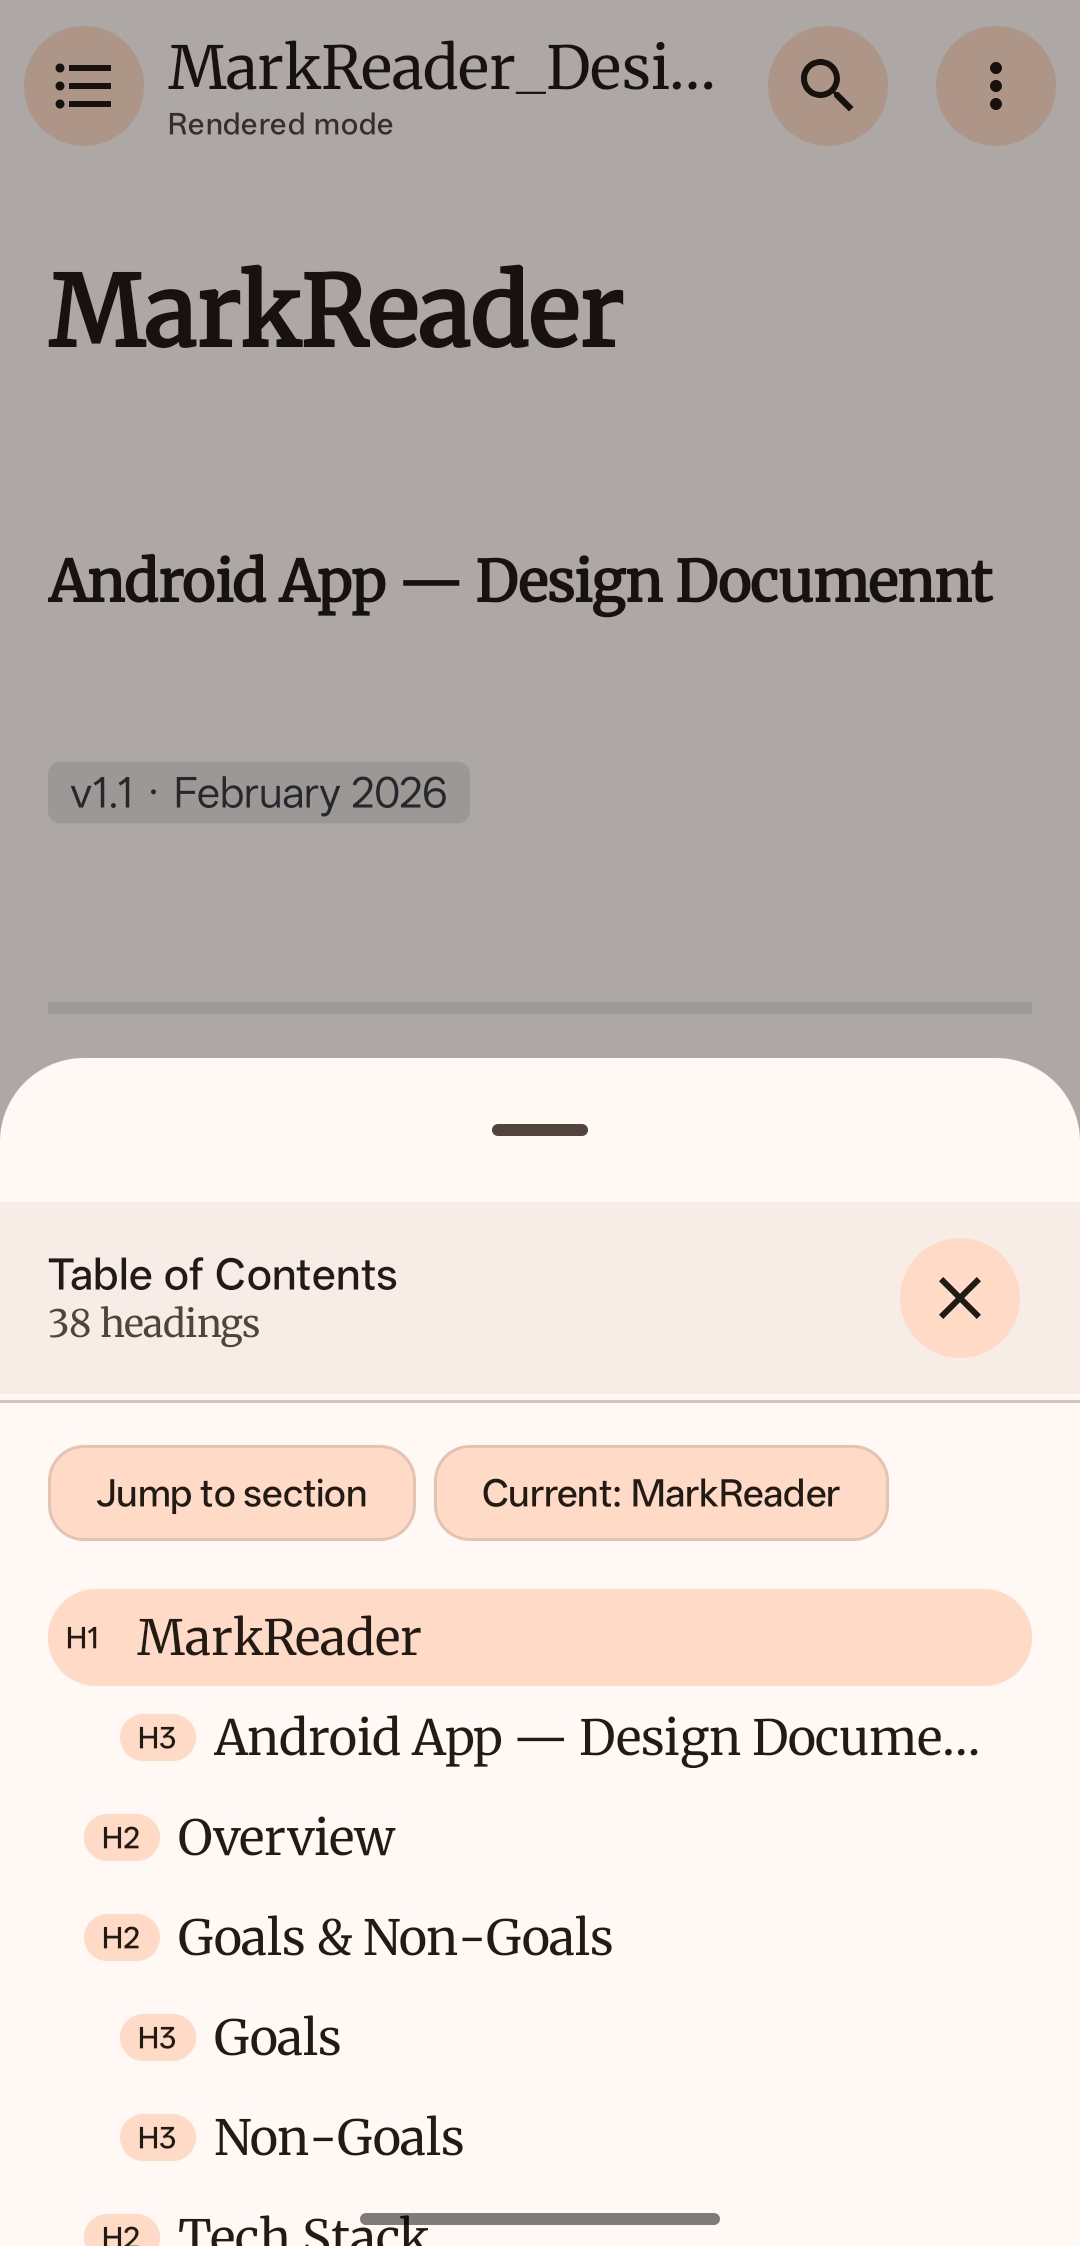
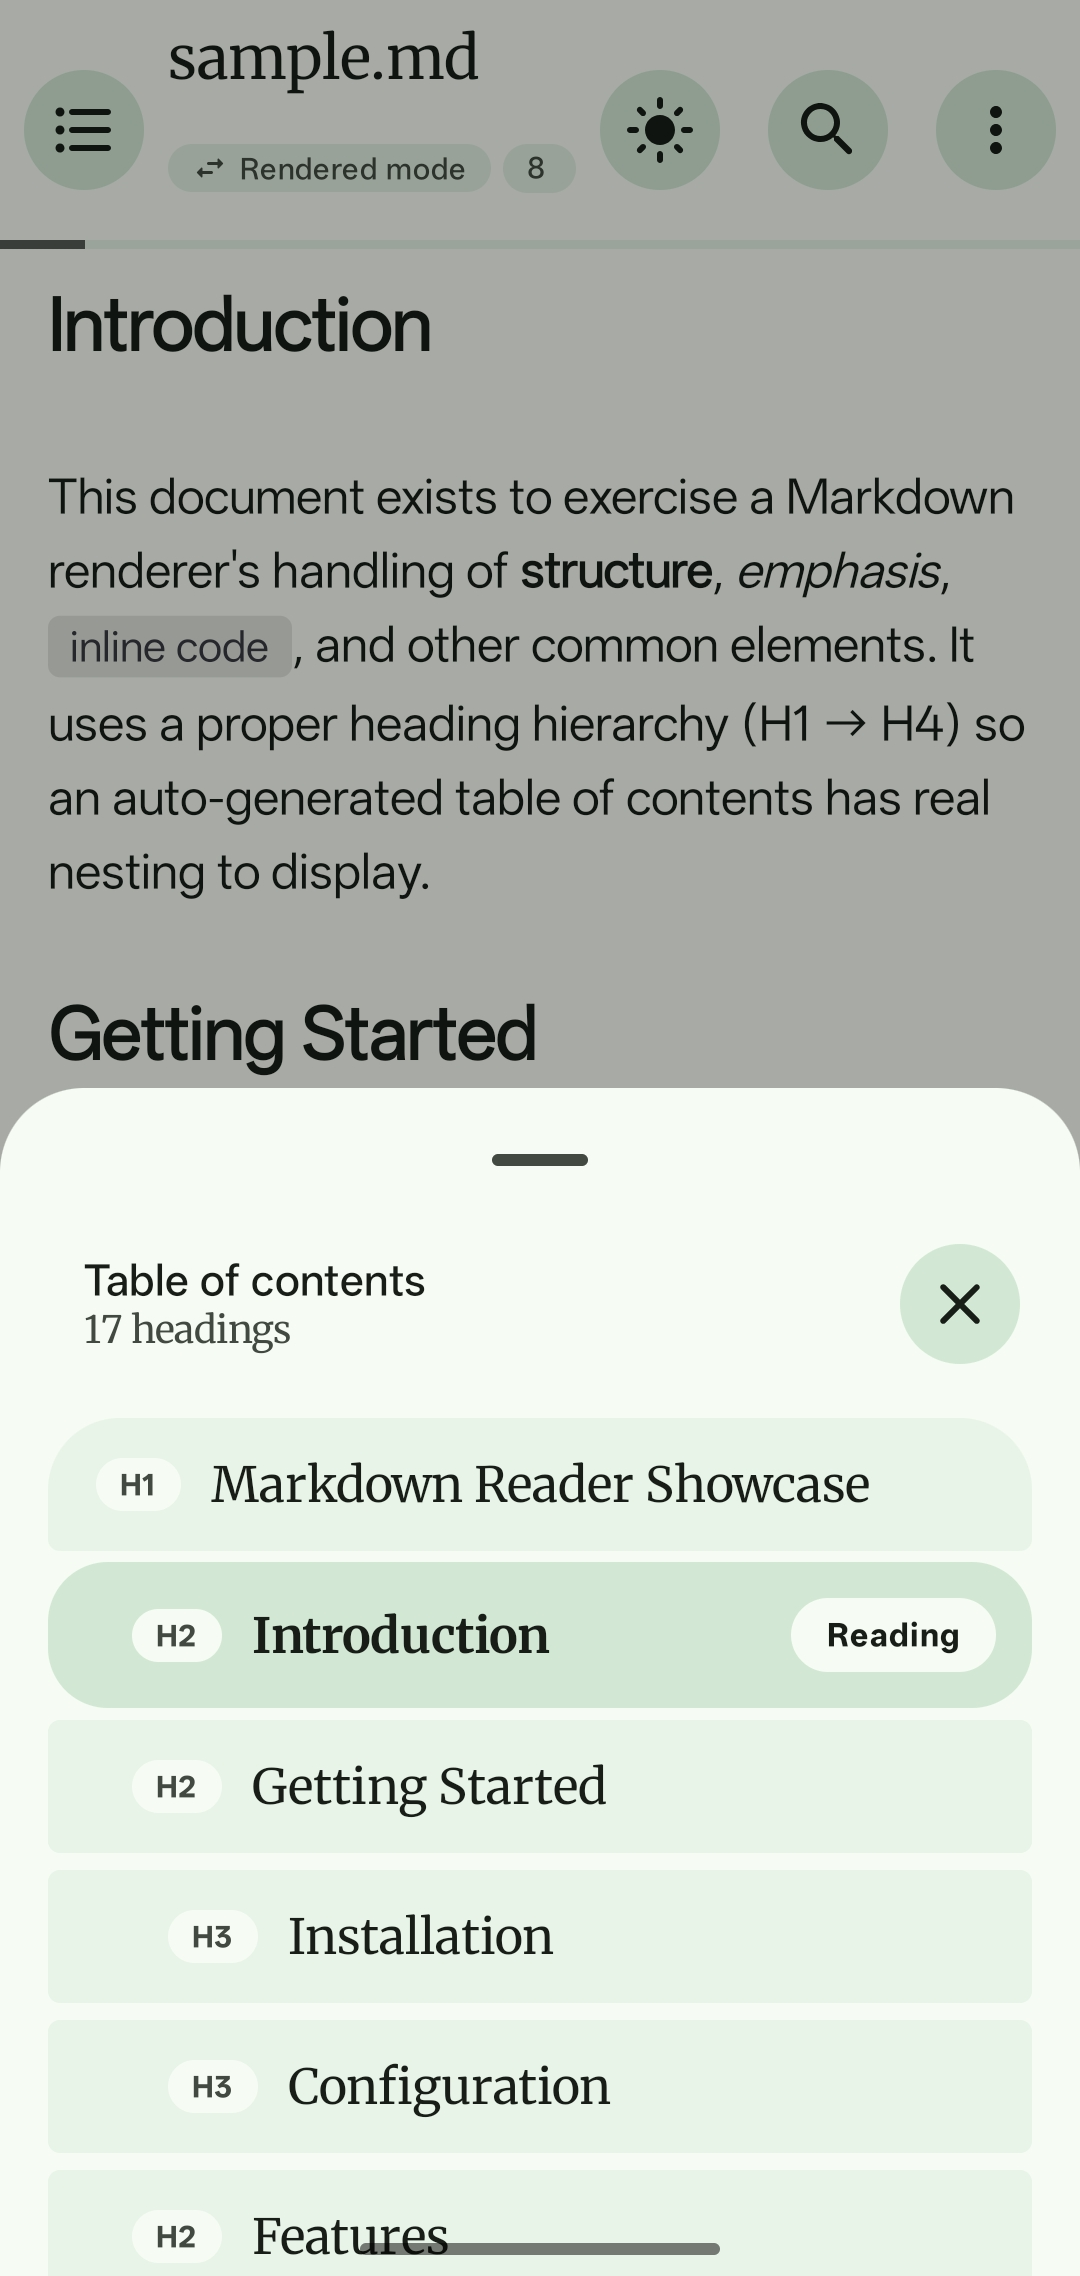
chore(release): v1.0.3 (#23)
* chore(release): v1.0.3

* docs(readme): udpate screenshots

diff --git a/CHANGELOG.md b/CHANGELOG.md
@@ -3,6 +3,23 @@
 All notable changes to MarkReader are documented in this file.
 Format follows [Keep a Changelog](https://keepachangelog.com/en/1.0.0/).
 
+## [1.0.3] - 2026-08-21
+
+### Added
+- Bundled a sans reading font for better on-screen readability.
+- Reading progress bar with a percentage badge in the viewer.
+- A tappable Rendered/Raw mode pill and a dedicated reader surface-flip button.
+- Auto-hiding viewer chrome on scroll and an animated search transition.
+- Overhauled search UX: auto-focus, debounced highlighting, jump-to-first-match, and rounded text-hugging match highlights.
+
+### Improved
+- Reworked the reader screen with rounded icons, haptic feedback on controls, a restyled table-of-contents sheet, and an expressive export bottom sheet.
+- Updated GitHub Actions CI dependencies.
+
+### Fixed
+- Stopped scroll stutter on upward scroll and preserved the scroll anchor across line-wrap toggles.
+- Hardened file open, read, and save paths: safer error handling, bounded reads with BOM stripping, shared-text handling via cache file, and more reliable persistable URI grants.
+
 ## [1.0.2] - 2026-08-02
 
 ### Added
